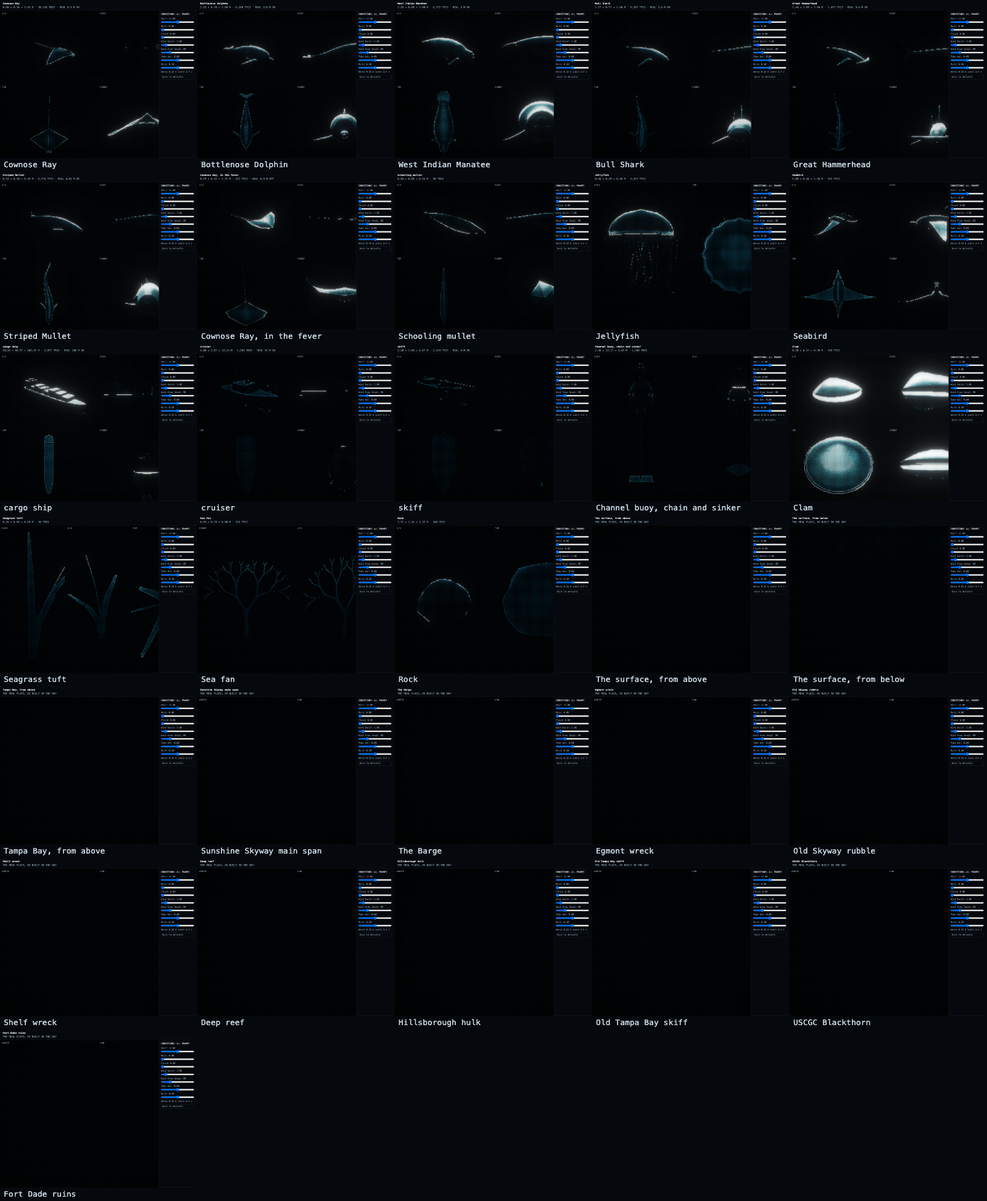
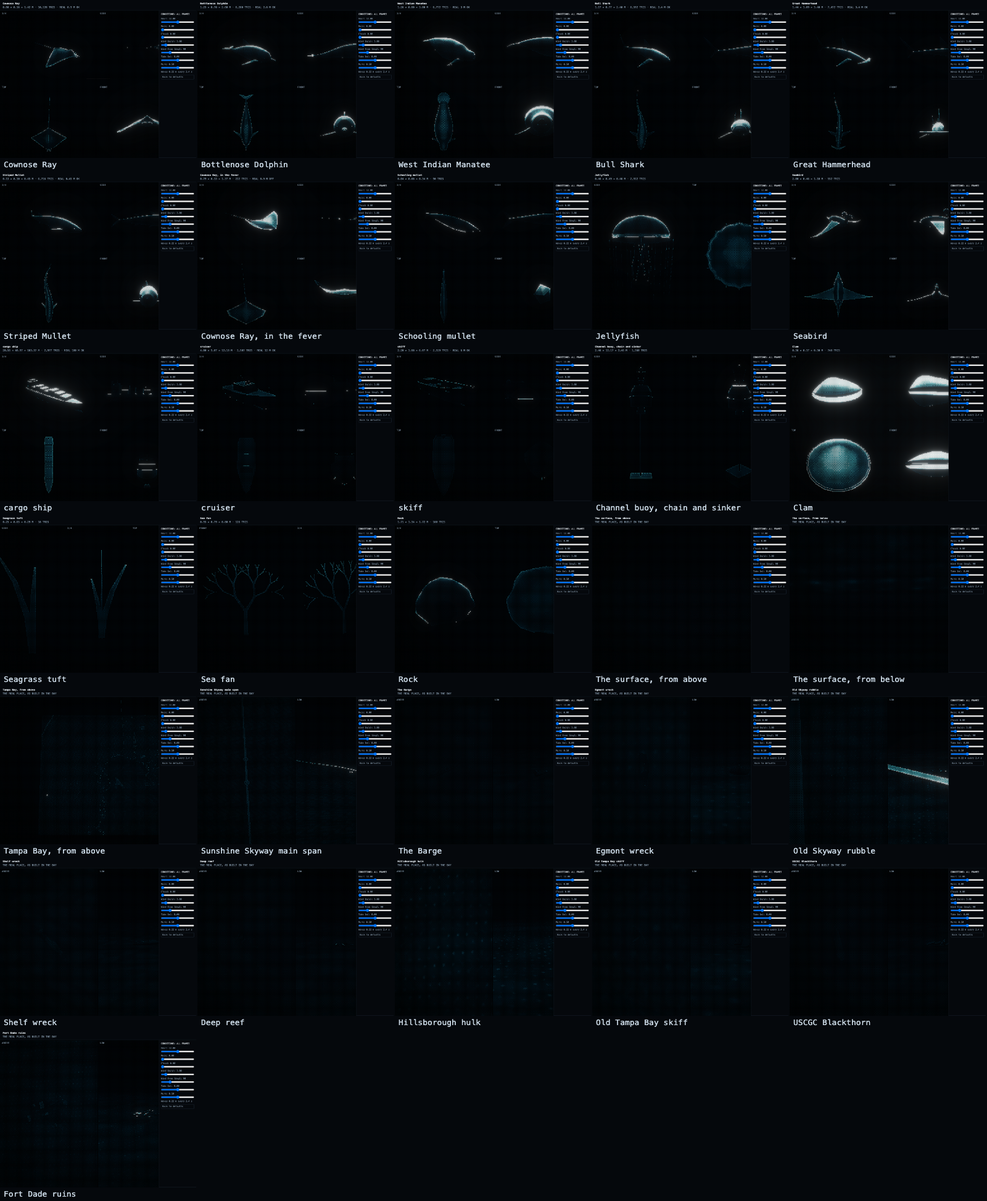
feat: a bull shark swims by its tail and hunts by stealth
A and D in turn are the tail: rhythm is speed, stopping is a glide, and holding one side is still a turn. Mullet feel pressure in the water, from far off if you rush and only close to if you come slowly from below, and only a strike takes them.

feat: the deck: a real spectrum analyzer, a seven-segment clock, feed lamps

The analyzer on the pause and sound cards shows the bay's actual sound with peak dots; lamps light when NOAA and the weather are really connected.

test: every model in both views and every frame, every menu card, and the whole story played through

npm test now runs npm run check too, in CI as well.

fix: replaying the Gulf no longer ends it at once; the follow timer resets with the chapter. Model frames fit exactly, and the viewer no longer blacks out wrecks and the bay map.

diff --git a/src/app/specimens.js b/src/app/specimens.js
@@ -9,7 +9,7 @@ import { WU } from '../render/materials.js?v=__BUILD__';
 import { ENV, applyEnv, fogReach } from '../world/conditions.js?v=__BUILD__';
 import { WRECKS, floorAt } from '../world/geo.js?v=__BUILD__';
 import { fans, grass, rocks } from '../world/seabed.js?v=__BUILD__';
-import { updateClipmap } from '../world/seafloor.js?v=__BUILD__';
+import { uBottomFade, updateClipmap } from '../world/seafloor.js?v=__BUILD__';
 import { BOAT_TYPES, boatMat, skywayFrame, structMat, world } from '../world/structures.js?v=__BUILD__';
 import { SPECIES, creatureMesh, speciesById } from '../actors/creatures.js?v=__BUILD__';
 import { feverMesh } from '../actors/fever.js?v=__BUILD__';
@@ -67,30 +67,31 @@ export function applySpecimen() {}   // each frame sets its own conditions as it
 // the conditions a frame shows: what is really happening, then anything you set for all frames, then anything set for this one
 export const CONTROLS = [['hour', 'Hour', 0, 24, 0.25], ['rain', 'Rain', 0, 1, 0.05], ['cloud', 'Cloud', 0, 1, 0.05], ['wind', 'Wind (m/s)', 0, 28, 0.5], ['windDir', 'Wind from (deg)', 0, 359, 5], ['tide', 'Tide (m)', -1.2, 1.2, 0.05], ['clarity', 'Murk', 0, 1, 0.05]];
 export const frameEnv = i => ({ hour: 12, ...ENV, ...specimen.all, ...(specimen.frames[i] || {}) });
-function useEnv(i) { const e = frameEnv(i), a = (e.hour - 6) / 12 * Math.PI, el = Math.sin(a); applyEnv(e); WU.uSun.value = THREE.MathUtils.smoothstep(el, -0.12, 0.25) * (1 - 0.6 * e.cloud); WU.uSunDir.value.set(Math.cos(a), el, -0.25).normalize(); const place = !!specimen.item?.place; WU.uFogD.value = (place ? 0.018 * (specimen.radius > 200 ? 25 / specimen.radius : 1) * fogReach(e) : 0.25 / Math.max(specimen.radius, 1) / 3); WU.uFogB.value = 0; }   // clear water at noon: a model is judged, not hidden
-const viewsOf = item => item?.views || (item?.place ? PLACE : ALL_FOUR);
+function useEnv(i) { surface.visible = !specimen.item?.place || specimen.item.group === 'weather';   /* a place is judged by what is in it; the sea from above would only hide it */ const e = frameEnv(i), a = (e.hour - 6) / 12 * Math.PI, el = Math.sin(a); applyEnv(e); WU.uSun.value = THREE.MathUtils.smoothstep(el, -0.12, 0.25) * (1 - 0.6 * e.cloud); WU.uSunDir.value.set(Math.cos(a), el, -0.25).normalize(); const place = !!specimen.item?.place; WU.uFogD.value = (place ? 0.55 * fogReach(e) : 0.25) / Math.max(specimen.dist, 0.1);   /* fog scaled to this frame's own distance, so the subject always shows and the murk control still means something */ WU.uFogB.value = 0; }   // clear water at noon: a model is judged, not hidden
+export const viewsOf = item => item?.views || (item?.place ? PLACE : ALL_FOUR);
 const HEAD_PX = 54, CTRL_PX = 190;   // the page's own header
 // the grid fits how many views this model has: one fills the page, two or three share a row, four make a square. in CSS pixels from the top left
-const layout = (i, n) => { const on = listEl && listEl.style.display !== 'none', left = on ? LIST_PX : 0, W = innerWidth - left - (on ? CTRL_PX : 0), H = innerHeight - HEAD_PX, cols = n === 4 ? 2 : n, rows = n === 4 ? 2 : 1, w = W / cols, h = H / rows; return { x: left + (i % cols) * w, y: HEAD_PX + Math.floor(i / cols) * h, w, h }; };
+export const layout = (i, n) => { const on = listEl && listEl.style.display !== 'none', left = on ? LIST_PX : 0, W = innerWidth - left - (on ? CTRL_PX : 0), H = innerHeight - HEAD_PX, cols = n === 4 ? 2 : n, rows = n === 4 ? 2 : 1, w = W / cols, h = H / rows; return { x: left + (i % cols) * w, y: HEAD_PX + Math.floor(i / cols) * h, w, h }; };
 // close enough that this model fills this panel from this side, measured from its own box, so a long thin thing isn't lost in a square
 function fitCamera(yaw, pitch, aspect) {
   const { at, half } = specimen, t = Math.tan(THREE.MathUtils.degToRad(FOV / 2)); _d.set(Math.sin(yaw) * Math.cos(pitch), Math.sin(pitch), Math.cos(yaw) * Math.cos(pitch));
   camera.position.copy(at).addScaledVector(_d, 1); camera.up.set(0, 1, 0); camera.lookAt(at); camera.updateMatrixWorld(); _r.setFromMatrixColumn(camera.matrixWorld, 0); _u.setFromMatrixColumn(camera.matrixWorld, 1);
-  let need = 0, deep = 0; for (const sx of [-1, 1]) for (const sy of [-1, 1]) for (const sz of [-1, 1]) { _c.set(sx * half.x, sy * half.y, sz * half.z); need = Math.max(need, Math.abs(_c.dot(_r)) / (t * aspect), Math.abs(_c.dot(_u)) / t); deep = Math.max(deep, _c.dot(_d)); }
-  const dist = Math.max(need * 1.08 + deep * 0.75, deep * 1.15); camera.near = Math.max(0.005, dist * 0.02); camera.far = Math.max(30000, dist * 4); camera.updateProjectionMatrix(); camera.position.copy(at).addScaledVector(_d, dist); camera.lookAt(at);   // the lens's near limit is for a bay; a clam is closer
+  let need = 0, deep = 0; for (const sx of [-1, 1]) for (const sy of [-1, 1]) for (const sz of [-1, 1]) { _c.set(sx * half.x, sy * half.y, sz * half.z); const near = _c.dot(_d); need = Math.max(need, Math.abs(_c.dot(_r)) / (t * aspect) + near, Math.abs(_c.dot(_u)) / t + near); deep = Math.max(deep, near); }   // every corner of its box inside the frame, nearest ones counted for how much larger they look
+  const dist = Math.max(need * 1.14, deep * 1.15); specimen.dist = dist;   // a little room: bodies and blades move beyond their resting shape
+  camera.near = Math.max(0.005, dist * 0.02); camera.far = Math.max(30000, dist * 4); camera.updateProjectionMatrix(); camera.position.copy(at).addScaledVector(_d, dist); camera.lookAt(at);   // the lens's near limit is for a bay; a clam is closer
 }
 // In game: the bay's own lighting, through the dot matrix. a little fill so the dark side of a model still shows
 export function renderSpecimenViews() {
   const rt = lowRT, gw = rt.width, gh = rt.height, k = gw / innerWidth, names = viewsOf(specimen.item); rt.scissorTest = true; camera.fov = FOV; WU.uRaw.value = 0; WU.uFill.value = 0;
   renderer.setClearColor(0x000000, 1); rt.viewport.set(0, 0, gw, gh); rt.scissor.set(0, 0, gw, gh); renderer.setRenderTarget(rt); renderer.clear();
   names.forEach((name, i) => { const b = layout(i, names.length), x = Math.round(b.x * k), w = Math.round(b.w * k) - 1, h = Math.round(b.h * k) - 1, y = gh - Math.round((b.y + b.h) * k); rt.viewport.set(x, y, w, h); rt.scissor.set(x, y, w, h); renderer.setRenderTarget(rt);
-    camera.aspect = w / h; camera.updateProjectionMatrix(); useEnv(i); fitCamera(...VIEW[name], camera.aspect); surface.position.set(camera.position.x, 0, camera.position.z); rainFall.position.copy(surface.position); renderer.render(scene, camera); });
+    camera.aspect = w / h; camera.updateProjectionMatrix(); fitCamera(...VIEW[name], camera.aspect); useEnv(i); surface.position.set(camera.position.x, 0, camera.position.z); rainFall.position.copy(surface.position); renderer.render(scene, camera); });
   applyEnv(); rt.viewport.set(0, 0, gw, gh); rt.scissor.set(0, 0, gw, gh); rt.scissorTest = false; renderer.setRenderTarget(rt);
 }
 // Raw: the model itself, straight to the screen in studio light
 export function renderSpecimenRaw() {
   const names = viewsOf(specimen.item), H = innerHeight; renderer.setRenderTarget(null); renderer.setScissorTest(true); renderer.setViewport(0, 0, innerWidth, H); renderer.setScissor(0, 0, innerWidth, H); renderer.setClearColor(0x161b21, 1); renderer.clear(); camera.fov = FOV; WU.uRaw.value = 1; WU.uFill.value = 0;
-  names.forEach((name, i) => { const b = layout(i, names.length); renderer.setViewport(b.x, H - b.y - b.h, b.w - 1, b.h - 1); renderer.setScissor(b.x, H - b.y - b.h, b.w - 1, b.h - 1); camera.aspect = b.w / b.h; camera.updateProjectionMatrix(); useEnv(i); fitCamera(...VIEW[name], camera.aspect); surface.position.set(camera.position.x, 0, camera.position.z); rainFall.position.copy(surface.position); renderer.render(scene, camera); });
+  names.forEach((name, i) => { const b = layout(i, names.length); renderer.setViewport(b.x, H - b.y - b.h, b.w - 1, b.h - 1); renderer.setScissor(b.x, H - b.y - b.h, b.w - 1, b.h - 1); camera.aspect = b.w / b.h; camera.updateProjectionMatrix(); fitCamera(...VIEW[name], camera.aspect); useEnv(i); surface.position.set(camera.position.x, 0, camera.position.z); rainFall.position.copy(surface.position); renderer.render(scene, camera); });
   applyEnv(); renderer.setScissorTest(false); renderer.setViewport(0, 0, innerWidth, H); renderer.setClearColor(0x000000, 1); WU.uRaw.value = 0;
 }
 // the header and each panel's name, in plain type above whichever view is on
@@ -124,7 +125,7 @@ function renderList() { if (!listEl) return; renderLabels(); renderControls(); f
 export function stepSpecimenList(d) { const i = SPECIMENS.indexOf(specimen.item); showSpecimen(SPECIMENS[(i + d + SPECIMENS.length) % SPECIMENS.length].id); }
 const BTN = 'display:block;width:100%;text-align:left;background:none;border:0;padding:2px 6px;border-radius:3px;cursor:pointer;font:inherit;color:#7f93a6';
 export function enterSpecimens() {
-  specimen.on = true; $('title').classList.add('gone'); document.title = 'BRACKISH models'; setDotPitch(3);
+  specimen.on = true; uBottomFade.value = 0; $('title').classList.add('gone'); document.title = 'BRACKISH models'; setDotPitch(3);
   listEl = document.createElement('nav'); listEl.setAttribute('style', `position:fixed;left:0;top:0;bottom:0;width:${LIST_PX}px;box-sizing:border-box;overflow:auto;padding:10px;background:#05080c;border-right:1px solid #1c2a38;font:12px/1.5 ui-monospace,monospace;z-index:20`);
   const tool = (fn) => { const b = document.createElement('button'); b.setAttribute('style', BTN + ';border:1px solid #1c2a38;margin-bottom:4px'); b.onclick = () => { fn(); renderList(); }; listEl.append(b); return b; };
   viewBtn = tool(() => { specimen.raw = !specimen.raw; }); wireBtn = tool(() => setWire(!specimen.wire)); turnBtn = tool(() => setTurning(!specimen.turning));

diff --git a/src/ui/panel.js b/src/ui/panel.js
@@ -14,7 +14,7 @@ import { Bay, TILES, floorAt, loadmsg } from '../world/geo.js?v=__BUILD__';
 import { clockText, day } from '../world/time.js?v=__BUILD__';
 import { P, abilityName, pulses } from '../actors/player.js?v=__BUILD__';
 import { huntHeat } from '../actors/wildlife.js?v=__BUILD__';
-import { captions, sideOf } from '../systems/audio.js?v=__BUILD__';
+import { audio, audioOn, captions, sideOf } from '../systems/audio.js?v=__BUILD__';
 import { aim, kn, menu, menuItems, mouseSteering, pad, photo, photoSpot } from '../systems/input.js?v=__BUILD__';
 import { lastSaved } from '../systems/save.js?v=__BUILD__';
 import { startedAt, story } from '../systems/story.js?v=__BUILD__';
@@ -312,9 +312,16 @@ export function drawStoryLine(v, oHelp) {   // the story line at the bottom (hid
   let y = H - 14 - SB - lines.length * 10 * ts; if (label) pText(label, cx, y - 11, 140 * os, 'center'); for (const l of lines) { pText(l, cx, y, 230 * os, 'center', ts); y += 10 * ts; } }
 }
 // every card on this display is built the same: a frame of fine dots, a title and a rule, then its rows, with the head unit's status beside the title and the keys under the frame
+// the deck's spectrum analyzer: the bay's real sound, in bands, each with a peak dot that hangs and falls. nothing here is decoration: it is what you are hearing
+export const spectrum = { bins: null, peaks: new Float32Array(20), data: null };
+export function drawSpectrum(x, y, w, h, a = 1) { const n = 20, gap = Math.max(1, Math.floor(w / n)), P_ = spectrum.peaks; let levels = null; const tap = audio?.tap;
+  if (tap && audioOn) { spectrum.data ??= new Uint8Array(tap.frequencyBinCount); tap.getByteFrequencyData(spectrum.data); const hz = audio.ac.sampleRate / tap.fftSize; levels = Array.from({ length: n }, (_, i) => { const lo = 40 * Math.pow(250, i / n), hi = 40 * Math.pow(250, (i + 1) / n); let m = 0; for (let k = Math.floor(lo / hz); k <= hi / hz && k < spectrum.data.length; k++) m = Math.max(m, spectrum.data[k]); return Math.pow(m / 255, 1.4); }); }
+  for (let i = 0; i < n; i++) { const lv = levels ? levels[i] : 0, top = Math.round(lv * h); P_[i] = Math.max(lv, P_[i] - fadeDt * 0.5); const bx = x + i * gap; for (let k = 0; k < h; k += 2) { const on = k < top; for (let c = 0; c < gap - 1; c++) pDot(bx + c, y + h - k, (on ? 200 : 28) * a); } const py = Math.round(P_[i] * h); if (py > 0) for (let c = 0; c < gap - 1; c++) pDot(bx + c, y + h - py - 1, 255 * a); } }
+// the indicator lamps: lit when that feed is really connected
+export const LAMPS = () => [['NOAA', !!Bay.live.ok], ['WX', !!ENV.live], ['TIDE', Bay.live.rising == null ? null : Bay.live.rising ? '▲' : '▼']];
+export function drawLamps(x, y, a = 1) { for (const [name, state] of LAMPS()) { const lit = !!state; pText(name, x, y, (lit ? 220 : 60) * a, 'left', 1, true); x += name.length * 4 + 1; pText(typeof state === 'string' ? state : '·', x, y, (lit ? 255 : 50) * a, 'left', 1, true); x += 9; } return x; }
 export function cardFrame(bx, by, bw, bh, a = 1) { for (let x = bx; x <= bx + bw; x += 2) { pDot(x, by, 70 * a); pDot(x, by + bh, 70 * a); } for (let y = by; y <= by + bh; y += 2) { pDot(bx, y, 70 * a); pDot(bx + bw, y, 70 * a); } }
-export function cardHead(title, ix, by, bx, bw, a = 1) { pText(title, ix, by + 6, 240 * a); pText(statusLine(), bx + bw - 7, by + 7, 140 * a, 'right', 1, true); for (let x = ix; x < bx + bw - 7; x += 2) pDot(x, by + 16, 90 * a); return by + 22; }
-export const statusLine = () => `${clockText(day.hour)}${ENV.live ? '  ' + (ENV.rain > 0 ? 'RAIN' : ENV.cloud > 0.6 ? 'OVERCAST' : 'CLEAR') : ''}`;   // the clock on the stereo's glass
+export function cardHead(title, ix, by, bx, bw, a = 1) { pText(title, ix, by + 6, 240 * a); { const c = clockText(day.hour).split(' '), w = (c[0].length - 1) * 6 + 2 + 10; pSeg(c[0].replace(':', '.'), bx + bw - 8 - w - 2, by + 6, 230 * a); pText(c[1], bx + bw - 7, by + 8, 140 * a, 'right', 1, true); } for (let x = ix; x < bx + bw - 7; x += 2) pDot(x, by + 16, 90 * a); return by + 22; }
 export function drawHelp(v, oHelp) {   // how to swim: a card like every other, one thing a row
   const { W, H, cx } = v, ks = [...help.querySelectorAll('.keys > *')], pairs = []; for (let i = 0; i + 1 < ks.length; i += 2) pairs.push([ks[i].textContent, ks[i + 1].textContent]);
   const keyW = Math.max(...pairs.map(p => [...p[0]].length)) * 6 + 8, descW = Math.max(...pairs.map(p => p[1].length)) * 6, bw = Math.min(W - 6, Math.max(keyW + descW + 16, 32 * 6 + 15)), bh = 28 + pairs.length * 10, bx = (W - bw) >> 1, by = Math.max(2, (H - bh - 10) >> 1), ix = bx + 8, a = oHelp;
@@ -337,11 +344,12 @@ export function drawPauseCard(v) {   // paused: a small framed card, left-aligne
     if (on) for (let yy = y - 2; yy < y + 8; yy++) for (let x = bx + 3; x <= bx + bw - 3; x++) pDot(x, yy, 46);   // the lit band of a head unit's list
     pText(name, ix, y, on ? 255 : 165); if (value) pText(value, right, y, on ? 255 : 200, 'right'); else if (it.act && !/BACK|RESUME|NO,|YES,/.test(name)) pText('►', right, y + 1, on ? 220 : 90, 'right', 1, true); menu.rows.push([y - 2, y + 8]); y += 10; });
   if (first > 0) pText('▲', bx + bw - 6, by + 18, 120, 'center', 1, true); if (first + fit < items.length) pText('▼', bx + bw - 6, by + bh - 7, 120, 'center', 1, true);
+  if (menu.kind === 'main' || menu.kind === 'sound') { const sh = 14, sy = by + bh + 14; if (sy + sh + 3 < H) { drawSpectrum(bx + 2, sy, bw - 70, sh); drawLamps(bx + bw - 62, sy + sh - 4); pText(ENV.live ? (ENV.rain > 0 ? 'RAIN' : ENV.cloud > 0.6 ? 'OVERCAST' : 'CLEAR') : '', bx + bw - 2, sy + 2, 140, 'right', 1, true); } }
   pText(menu.kind === 'feedback' ? (MOBILE ? 'TYPE, THEN TAP SEND' : 'ENTER SEND  SHIFT+ENTER NEW LINE  ESC BACK') : menu.binding ? 'PRESS THE NEW KEY  ESC KEEP IT' : pad.active ? 'A CHOOSE  ◄► CHANGE  B BACK' : 'ENTER CHOOSE   ◄► CHANGE   ESC BACK', cx, by + bh + 5, 105, 'center', 1, true);
 }
 export function drawFastTravel(v) {   // fast travel: the bay as dots, the places you have found
   const { W, H, ST, SL, SB, cx, t, cols } = v;
-  pText('FAST TRAVEL', 6, 3, 240); pText(statusLine(), W - 6, 4, 140, 'right', 1, true); for (let x = 6; x < W - 6; x += 2) pDot(x, 12, 90);
+  pText('FAST TRAVEL', 6, 3, 240); pText(clockText(day.hour), W - 6, 4, 140, 'right', 1, true); for (let x = 6; x < W - 6; x += 2) pDot(x, 12, 90);
   const land = W > H * 1.3, S = Math.max(20, land ? Math.min(H - 20, (W >> 1) - 8) : Math.min(W - 12, Math.floor(H * 0.55))), mx = land ? W - S - 6 : (W - S) >> 1, my = 16;
   const tt = TILES.outer, span = tt.xmax - tt.xmin, ccx = (tt.xmin + tt.xmax) / 2, ccz = (tt.zmin + tt.zmax) / 2;
   if (!panel.map || panel.mapS !== S) { panel.map = Bay.chart(ccx, ccz, span, S); panel.mapS = S; }

diff --git a/src/app/frame.js b/src/app/frame.js
@@ -41,13 +41,20 @@ export const _cur = new THREE.Vector3(), _next = new THREE.Vector3(), _want = ne
 //    bursting, how hard you're swimming. the body's lasting state is on P.
 // a bubble in your wake: from behind the body, whichever way you are facing
 export function wakeBubble(sp) { const f = fwdOf(P.yaw, P.pitch), side = (rand() - 0.5) * (sp.span ?? sp.len) * 0.5, back = sp.len * 0.55; emitBubble(P.pos.x - f.x * back + Math.cos(P.yaw) * side, P.pos.y - f.y * back + (rand() - 0.5) * 0.1, P.pos.z - f.z * back - Math.sin(P.yaw) * side); }
+// a shark swims with its tail, so that is what your hands do: left, right, left, right, each stroke a push. keep the rhythm and you fly; stop and you glide
+export const TAIL_SWIMMERS = new Set(['bull', 'hammer']);
+export function stepTail(sp, dt) {
+  if (!TAIL_SWIMMERS.has(sp.id)) { P.tail = 0; return; } const T = TUNE.tail, side = input.turn > 0.5 ? 1 : input.turn < -0.5 ? -1 : 0;
+  if (side && side !== P.tailHeld && side !== P.tailSide) { if (simTime - (P.tailAt ?? -9) < T.window) { P.tail = Math.min(1, (P.tail || 0) + T.gain); whoosh(0.12); } P.tailSide = side; P.tailAt = simTime; }
+  P.tailHeld = side; P.tail = Math.max(0, (P.tail || 0) - T.decay * dt);
+}
 export function stepPlayer(dt) {
   const sp = P.sp, stunned = P.stun > 0; P.stun -= dt;
   P.vel ??= new THREE.Vector3();
   const intent = steerIntent(dt, stunned), ground = terrainAround(sp, dt, intent.climb);
   steerBody(sp, intent, ground, dt);
   const wantBurst = stepBurst(stunned, dt), thrust = swim(sp, intent, wantBurst, stunned, dt);
-  porpoise(sp, wantBurst, dt); breathe(sp, wantBurst, dt);
+  stepTail(sp, dt); porpoise(sp, wantBurst, dt); breathe(sp, wantBurst, dt);
   moveThroughWater(sp, ground.fHere, dt);
   rippleAndSplash(sp, dt); const surf = surfacing(sp, dt); wake(sp, dt);
   poseBody(sp, thrust, surf, dt);
@@ -94,7 +101,8 @@ export function stepBurst(stunned, dt) {
 }
   // propulsion: thrust along the body, quadratic drag, sideways water resistance, a little lift from pitch
 export function swim(sp, { climb, throttle }, wantBurst, stunned, dt) {
-  const fwd = fwdOf(P.yaw, P.pitch), wantSpeed = throttle < 0 ? -0.35 * sp.cruise : wantBurst ? Math.min(sp.max * TUNE.burst.boost, TUNE.burst.top) : throttle === 0 ? 0.12 * sp.cruise : (sprinting() && !stunned ? sp.cruise * 1.25 : sp.cruise);
+  const fwd = fwdOf(P.yaw, P.pitch), wantBase = throttle < 0 ? -0.35 * sp.cruise : wantBurst ? Math.min(sp.max * TUNE.burst.boost, TUNE.burst.top) : throttle === 0 ? 0.12 * sp.cruise : (sprinting() && !stunned ? sp.cruise * 1.25 : sp.cruise);
+  const wantSpeed = Math.max(wantBase, (P.tail || 0) > 0 ? sp.cruise * 0.5 + (P.tail) * (sp.max - sp.cruise * 0.5) : wantBase);
   const along = P.vel.dot(fwd), dragAt = v => 2.4 * sp.max * v * Math.abs(v) / (sp.max * sp.max);   // the same quadratic drag the water applies below
   // thrust = what holding that speed costs against the drag, plus a push toward it, so every speed is actually reached; a burst pushes hardest
   const thrust = THREE.MathUtils.clamp(dragAt(wantSpeed) / 0.85 + (wantSpeed - along) * (wantBurst ? 10.0 : 6.0), -0.6 * sp.max, wantBurst ? Math.max(4.5 * sp.max, 1.3 * dragAt(wantSpeed) / 0.85) : 2.4 * sp.max) * (0.85 + 0.15 * Math.sin(P.mesh.material.uniforms.uPhase.value * 2.0));
@@ -256,7 +264,7 @@ export function stepAmbient(dt, t) {
   for (const s of schools) {
     if (s.c.lengthSq() === 0 || s.c.distanceTo(P.pos) > 160) { const sp = spotNear(P.pos, 25, 85, 1.5); if (!sp) continue; s.c.set(sp.x, Math.min(-1.5, sp.f + 2 + rand() * 3), sp.z); s.base = s.spread; for (const fish of s.fish) fish.alive = true; }
     const pd = s.c.distanceTo(P.pos);
-    if (pd < 6 && P.speed > P.sp.cruise * 1.2) s.panic = 3;   // a charge scatters the school
+    { const H = TUNE.hunt, hunter = PREDATORS.has(P.sp.id), felt = (P.speed > P.sp.cruise * H.fastOver ? H.feelFast : H.feelSlow) * (P.pos.y < s.c.y - 0.5 ? H.under : 1); if (hunter ? pd < felt : pd < 6 && P.speed > P.sp.cruise * 1.2) s.panic = 3; }   // their flanks feel pressure in the water: rush and they are gone; come slowly from below and you may get close
     if (s.panic <= 0) for (const w of wild) if (w.sp && PREDATORS.has(w.sp.id) && w.pos.distanceTo(s.c) < 14) { s.panic = 3; if (pd < 50) flush(s.c.x, s.c.z, 1 - pd / 50); break; }   // sharks are silent; their prey is not
     s.panic = Math.max(0, s.panic - dt); s.spread += ((s.panic > 0 ? s.base * 3 : s.base) - s.spread) * Math.min(1, 3 * dt);
     if (s.panic > 0) { steerToSchool(s, 2 * s.c.x - P.pos.x, 2 * s.c.z - P.pos.z); }
@@ -264,7 +272,7 @@ export function stepAmbient(dt, t) {
     const f = floorAt(s.c.x, s.c.z); if (f > -2.5) s.dir += 2 * dt; s.c.y = THREE.MathUtils.clamp(s.c.y, f + 1, -1.2);
     for (const fish of s.fish) { const ph = t * fish.w + fish.ph; _e.set(Math.sin(ph * 1.7) * 0.1, s.dir + Math.cos(ph) * 0.35, 0); _m.makeRotationFromEuler(_e);
       const fx = s.c.x + fish.off.x * s.spread + Math.sin(ph) * 0.6, fy = s.c.y + fish.off.y * s.spread, fz = s.c.z + fish.off.z * s.spread + Math.cos(ph * 0.8) * 0.6;
-      if (fish.alive && (PREDATORS.has(P.sp.id) || P.sp.id === 'dolphin') && (P.speed > P.sp.cruise * 1.3 || P.strikeT > 0) && Math.abs(fx - P.pos.x) < (P.strikeT > 0 ? 1.8 : 1) && Math.abs(fz - P.pos.z) < (P.strikeT > 0 ? 1.8 : 1) && Math.abs(fy - P.pos.y) < 1.2) { fish.alive = false; P.fed = (P.fed || 0) + 1; if (P.fed % 3 === 0 && P.hp < HP_MAX) { P.hp++; say('♥  well fed', 1.2); } s.panic = 3; emitBubble(fx, fy, fz); }
+      if (fish.alive && (P.strikeT > 0 ? PREDATORS.has(P.sp.id) || P.sp.id === 'dolphin' : P.sp.id === 'dolphin' && P.speed > P.sp.cruise * 1.3) && Math.abs(fx - P.pos.x) < (P.strikeT > 0 ? TUNE.hunt.reach : 1) && Math.abs(fz - P.pos.z) < (P.strikeT > 0 ? TUNE.hunt.reach : 1) && Math.abs(fy - P.pos.y) < 1.2) { fish.alive = false; P.fed = (P.fed || 0) + 1; if (P.fed % 3 === 0 && P.hp < HP_MAX) { P.hp++; say('♥  well fed', 1.2); } s.panic = 3; emitBubble(fx, fy, fz); }
       if (!fish.alive) _m.scale(GONE);
       _m.setPosition(fx, fy, fz); fishMesh.setMatrixAt(k++, _m); }
   }

diff --git a/src/systems/story.js b/src/systems/story.js
@@ -38,7 +38,7 @@ export const CHAPTERS = [
   { title: 'VI · THE POD', species: 'dolphin', start: [27.6185, -82.66117], pair: true, goal: () => { const m = wild.find(o => o.partner); return m && m.pos.distanceTo(P.pos) > 25 ? [m.pos.x, m.pos.z] : null; },
     lines: ['The fever scatters. Something faster finds you.', 'You are a bottlenose dolphin now, and one of the pod has come to swim beside you.', 'Swim close beside it, near the top. Burst, and you leap together. Three times.'] },
   { title: 'VII · THE SHADOW', species: 'bull', clock: 21, start: [27.84, -82.47], feed: 8,
-    lines: ['Hillsborough Bay. Warm, brown, shallow.', 'You are a bull shark now. The mullet know you before they see you.', 'Feed. E to lunge. They scatter. Eight will do.'] },
+    lines: ['Hillsborough Bay. Warm, brown, shallow.', 'You are a bull shark now. A and D, in turn, are your tail. Rhythm is speed.', 'The mullet feel you coming. Slow, from below, until you are close. E strikes. Eight will do.'] },
   { title: 'VIII · SLOW WATER', species: 'manatee', start: [27.80099, -82.41895], goal: () => toXZ(27.8005, -82.4145), radius: 90,
     lines: ['You are a manatee. Nothing here is fast except the boats.', 'The power plant at Apollo Beach runs warm water into the bay, and in winter that is the only warm water there is.', 'Get there. Stay deep when the water hums.'] },
   { title: 'IX · DAWN', feverAt: 'hole', species: 'cownose', start: [27.60629, -82.75359], surface: true, clock: 5.6,
@@ -48,7 +48,7 @@ export const CHAPTERS = [
 ];
 export const story = { ch: 0, line: -1, surfaceT: 0, followT: 0, breaths: 0, wasUp: false, fed0: 0, goal: null,
   begin(i) {
-    this.ch = i; document.body.classList.toggle('free', !!CHAPTERS[i].free || DEV); renderHelpKeys(); this.line = 0; this.breaths = 0; this.surfaceT = 0; this.hammer = false; this.syncs = 0; for (const o of wild) o.partner = false; this.beganAt = WU.uTime.value; this.fed0 = P.fed || 0; P.hp = Math.max(P.hp || 0, 3); const c = CHAPTERS[i];
+    this.ch = i; document.body.classList.toggle('free', !!CHAPTERS[i].free || DEV); renderHelpKeys(); this.line = 0; this.followT = 0; this.breaths = 0; this.surfaceT = 0; this.hammer = false; this.syncs = 0; for (const o of wild) o.partner = false; this.beganAt = WU.uTime.value; this.fed0 = P.fed || 0; P.hp = Math.max(P.hp || 0, 3); const c = CHAPTERS[i];
     const fade = $('fade'), card = $('chapter'), run = this.run = (this.run || 0) + 1, current = () => run === this.run;   // a newer start supersedes this one, and its leftovers do nothing
     const arrive = () => { if (!current()) return;
       if (c.feverAt === 'hole') { fever.seg = 0; fever.t = 0; fever.moving = false; fever.c.set(FEVER_PATH[0][0], fever.c.y, FEVER_PATH[0][1]); }   // the fever gathers in the hole off Egmont (III), and is back there in the spring (IX)

diff --git a/src/core/tune.js b/src/core/tune.js
@@ -7,6 +7,8 @@ export const TUNE = {
   hush: 0.88,                                                // how much of the sea goes quiet when a shark takes an interest
   tide: { pull: 0.9, from: 0.3, to: 1.0 },                   // strong currents push this much harder, ramping in between these m/s
   photo: { reach: 40, lens: [25, 90], shutter: 0.25, hint: 6 },   // photo mode: how far (m) the lens may wander from you, its field of view, the shutter's blink (s), how long the keys stay on screen (s)
+  tail: { window: 0.9, gain: 0.2, decay: 0.32 },             // swimming as a shark: A and D in turn are your tail. how long you may wait between strokes (s), how much each adds, how fast it fades (per s)
+  hunt: { feelSlow: 5, feelFast: 24, fastOver: 1.15, under: 0.6, reach: 1.8 },   // mullet feel pressure in the water: how far (m) if you come slowly, how far if you rush (over this much of your cruise), how much closer from beneath, and how far a strike takes them
   camera: { near: 0.8, perSize: 1.32, perSpeed: 0.04 },        // how far behind you: a base, per metre of body, per m/s. tools/check.mjs measures how much of the screen the animal fills
   // the sound, by the science. tools/check.mjs measures the result against what the ocean does, so these are tuned from numbers, not by ear
   sound: { swell: 0.1, shrimp: 0.05, pressure: 0.32, pressureDeep: 0.22, rough: 0.14, roughHz: 70, chorus: 1, ring: 3600, ringLevel: 0.02, ringFor: 5 },   // the sea breathes at 0.1 Hz (six breaths a minute, the calmest human rate); snapping shrimp; a sub-bass pressure near a hunter, and a little in deep water; the alarm of 30-150 Hz roughness (Arnal et al. 2015) at this rate; fish at dusk

diff --git a/README.md b/README.md
@@ -76,7 +76,7 @@ of that, and dev mode never touches your save. The page's security policy allows
 
 ## Pictures and models
 
-`npm run check` is the first stop for tuning: it measures motion (tail beats and Strouhal numbers against published swimming studies), the camera's framing, the sound's spectrum (against ambient-ocean noise curves, and what fear should do to it), faults in the picture, and what a frame costs, and prints one line per fault. Change a number in `src/core/tune.js` and run it again; look at a picture only when a number can't say what is wrong.
+`npm run check` (part of `npm test`) is the first stop for tuning: it checks every model in both views and every frame, and measures motion (tail beats and Strouhal numbers against published swimming studies), the camera's framing, the sound's spectrum (against ambient-ocean noise curves, and what fear should do to it), faults in the picture, and what a frame costs, and prints one line per fault. Change a number in `src/core/tune.js` and run it again; look at a picture only when a number can't say what is wrong.
 
 `npm run shot` takes every scene (the title, swimming, a burst, the surface, night, the menus, photo mode, a phone) from the same seed into `.shots/`, with all of them on one `sheet.png`. `node tools/shot.mjs surface burst` takes just those, `--list` shows them, and `--at 27.62,-82.65,8 --clock 22 --js "P.hp = 1"` shoots any spot at any hour. It says so if the page logged an error or the canvas doesn't fit the window.
 
